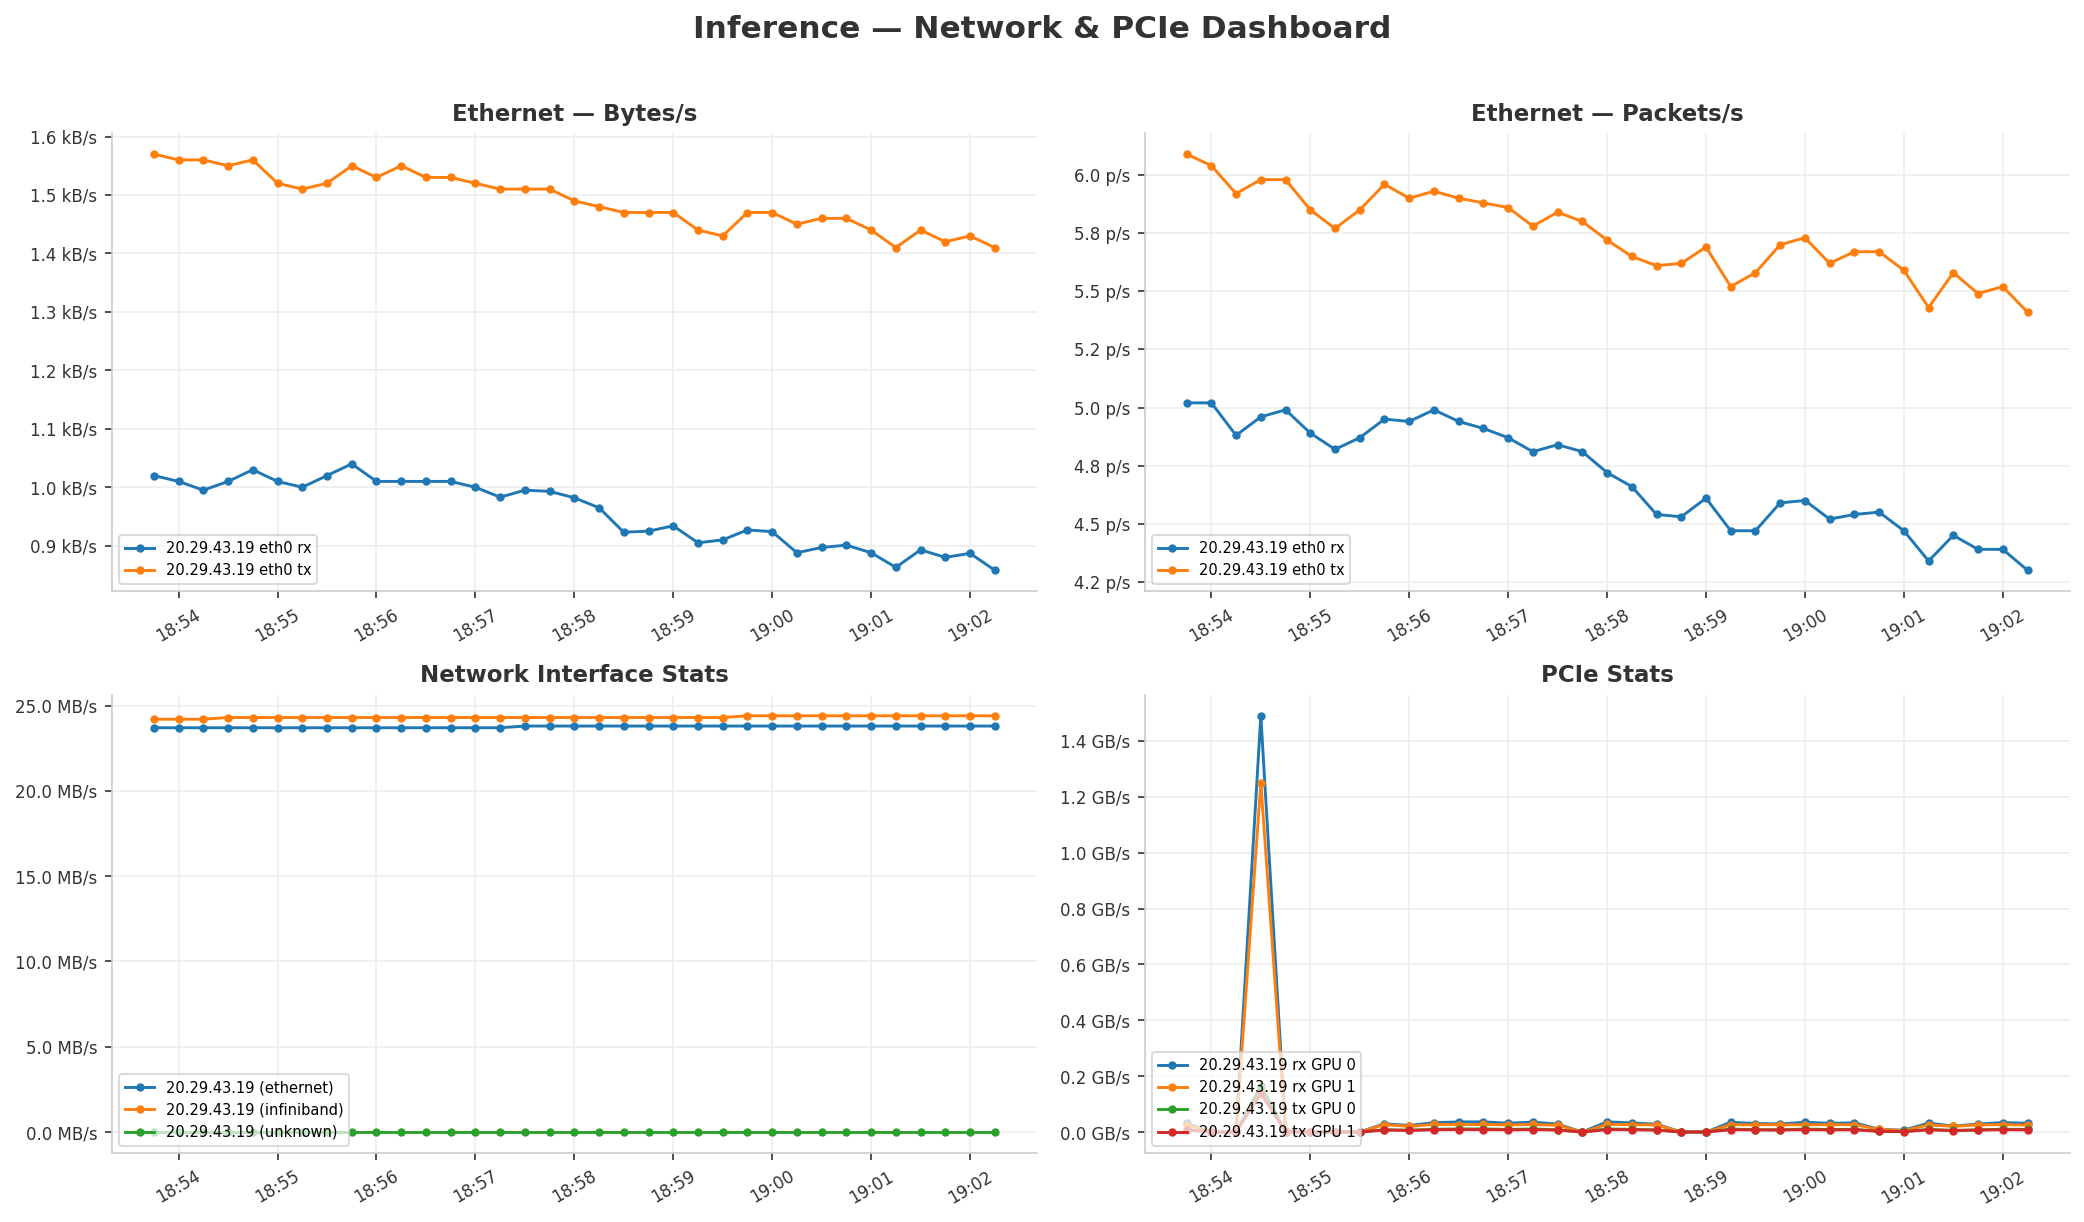
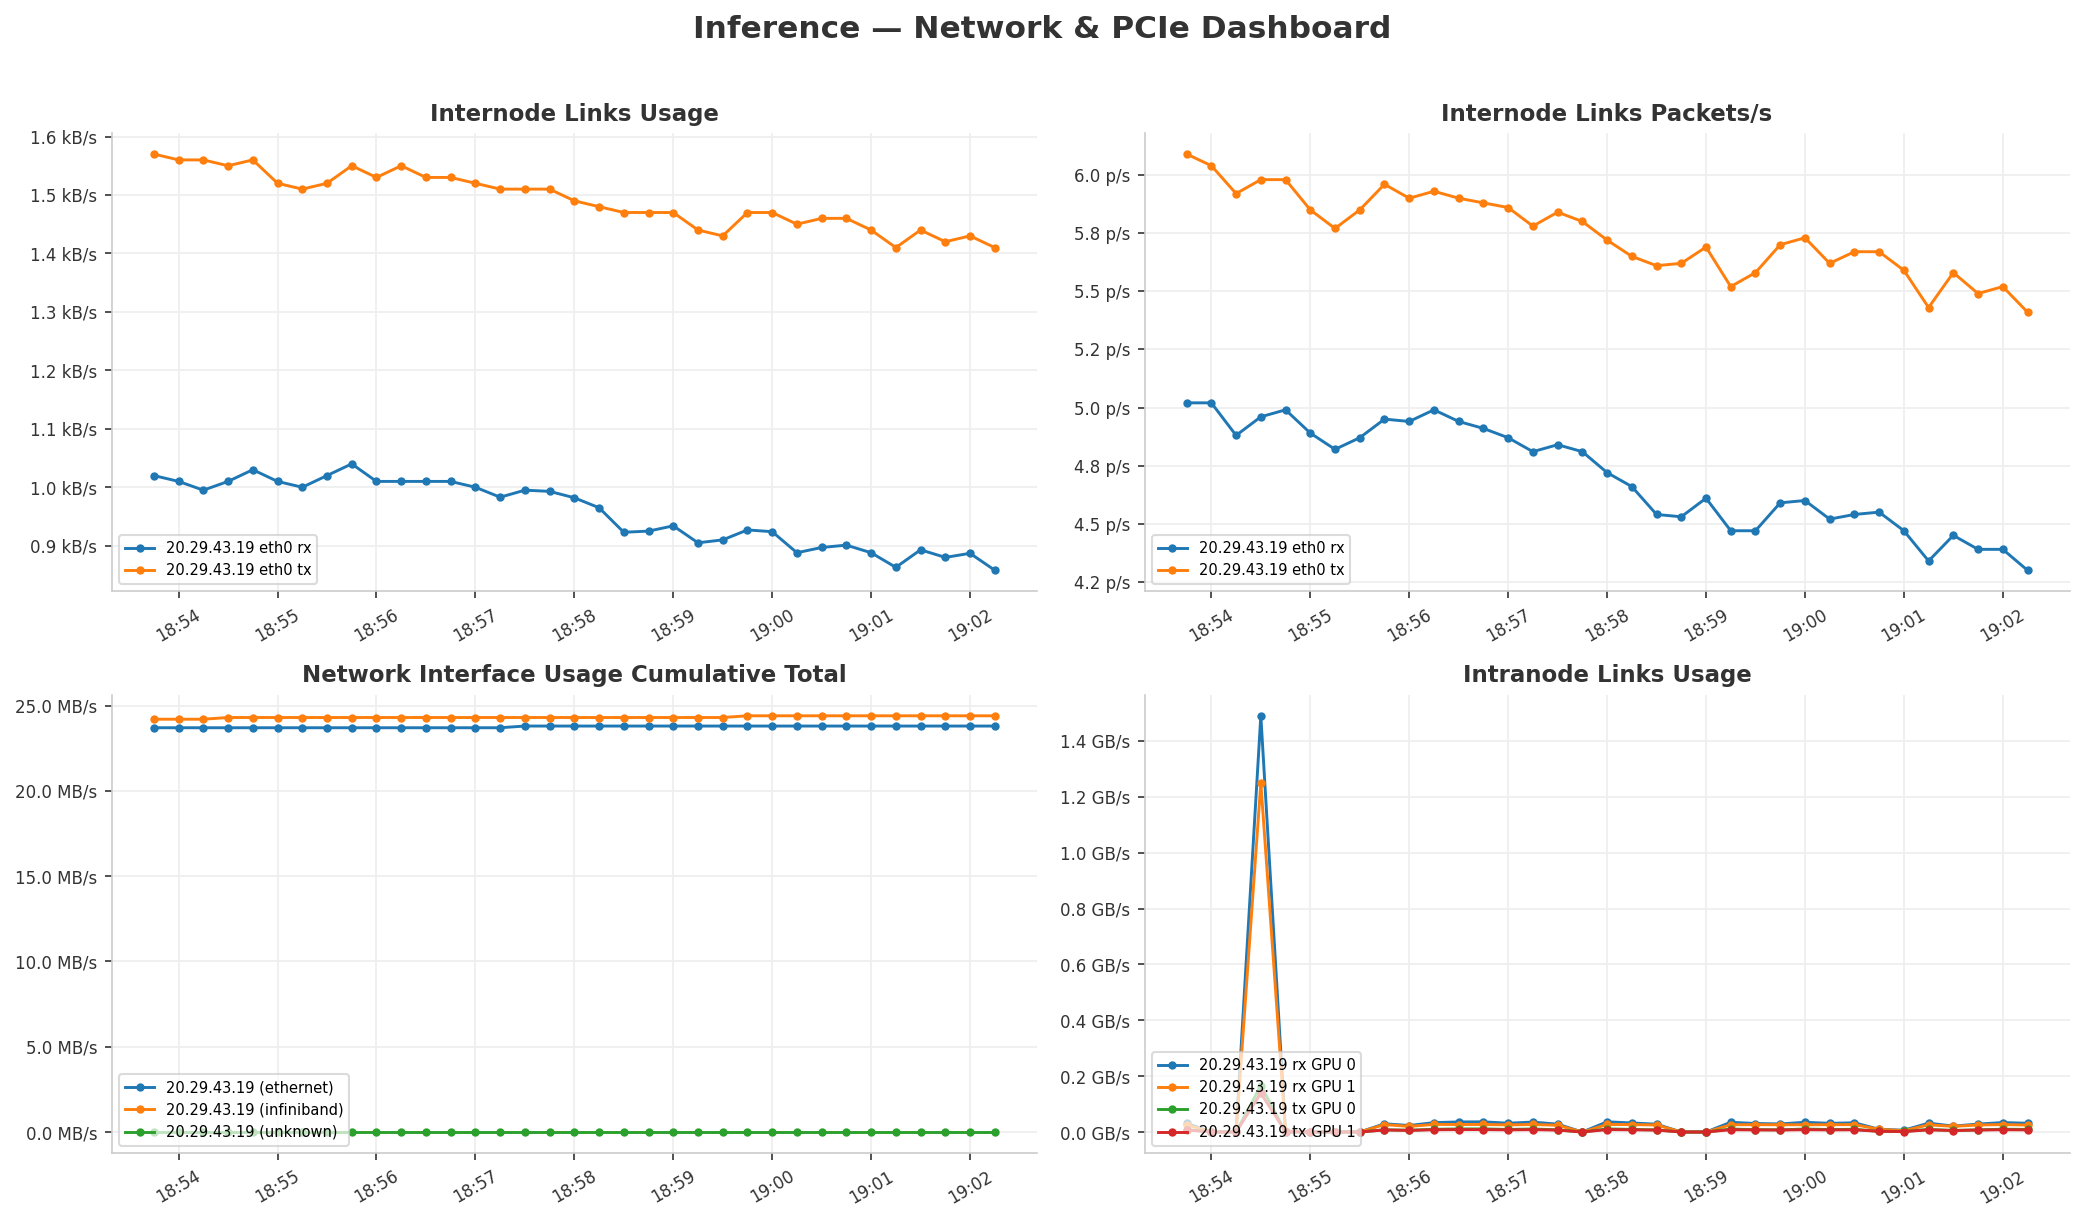
improve comparison plot: fixed units, log scale for NI panel, use_sum aggregation
- Network Interface Stats: cumulative totals (no differentiation), log y-axis,
  sum across series (independent transports), y-axis in GB
- Ethernet Bytes: fixed GB/s y-axis
- Rename panel titles to Internode/Intranode Links Usage
- Wire log_scale flag and force_unit field through plot_comparison loop

diff --git a/scripts/analysis/plot_dashboard.py b/scripts/analysis/plot_dashboard.py
@@ -9,6 +9,7 @@ Outputs:
     results/distributed inference/dashboard.png
 """
 
+import numpy as np
 import fnmatch
 import re
 from pathlib import Path
@@ -35,15 +36,25 @@ PACKET_MULTIPLIERS = {
 
 
 def parse_value(s: str) -> float:
-    """Parse a Grafana value string like '1.02 kB/s', '5.02 p/s', or '1.07 kp/s' to a float."""
+    """Parse a Grafana value string to a float in base units (bytes or packets).
+
+    Handles:
+      '1.02 kB/s', '23.8 MB/s', '1.00 TB/s'  → bytes/s
+      '5.02 p/s', '1.07 kp/s'                 → packets/s
+      '30.8 MB', '1.12 TB'                    → bytes (bare, no /s — cumulative counters)
+    """
     s = s.strip()
     for suffix, mult in PACKET_MULTIPLIERS.items():
         if s.endswith(suffix):
             return float(s[: -len(suffix)].strip()) * mult
+    # rate units (e.g. "23.8 MB/s") — check before bare to avoid partial match
     for suffix, mult in UNIT_MULTIPLIERS.items():
         if s.endswith(f" {suffix}/s") or s == f"{suffix}/s":
             return float(s[: -len(suffix) - 2].strip()) * mult
-    # fallback: try plain float
+    # bare units (e.g. "30.8 MB") — cumulative counter exports
+    for suffix, mult in UNIT_MULTIPLIERS.items():
+        if s.endswith(f" {suffix}") or s == suffix:
+            return float(s[: -len(suffix)].strip()) * mult
     return float(s)
 
 
@@ -89,10 +100,10 @@ def packets_formatter(val, _pos):
 
 # Map filename-pattern keywords to panel metadata
 PANEL_ORDER = [
-    ("Ethernet*Bytes*", "Ethernet — Bytes/s", "bytes"),
-    ("Ethernet*Packets*", "Ethernet — Packets/s", "packets"),
-    ("network interface*", "Network Interface Stats", "bytes"),
-    ("PCIe*", "PCIe Stats", "bytes"),
+    ("Ethernet*Bytes*", "Internode Links Usage", "bytes"),
+    ("Ethernet*Packets*", "Internode Links Packets/s", "packets"),
+    ("network interface*", "Network Interface Usage Cumulative Total", "bytes"),
+    ("PCIe*", "Intranode Links Usage", "bytes"),
 ]
 
 
@@ -102,7 +113,8 @@ def find_csv(folder: Path, pattern: str) -> Path:
     all_csvs = list(folder.glob("*.csv"))
     matches = [f for f in all_csvs if fnmatch.fnmatch(f.name, glob_pat)]
     if not matches:
-        matches = [f for f in all_csvs if fnmatch.fnmatch(f.name.lower(), glob_pat.lower())]
+        matches = [f for f in all_csvs if fnmatch.fnmatch(
+            f.name.lower(), glob_pat.lower())]
     if not matches:
         raise FileNotFoundError(f"No CSV matching '{glob_pat}' in {folder}")
     return sorted(matches)[0]
@@ -138,7 +150,8 @@ def plot_dataset(folder: Path, title: str) -> None:
                 markevery=max(1, len(df) // 30),
             )
 
-        ax.set_title(panel_title, fontsize=11, fontweight="bold", color="#333333", pad=6)
+        ax.set_title(panel_title, fontsize=11,
+                     fontweight="bold", color="#333333", pad=6)
         ax.tick_params(axis="x", rotation=30, labelsize=8, colors="#333333")
         ax.tick_params(axis="y", labelsize=8, colors="#333333")
         ax.xaxis.set_major_formatter(
@@ -148,9 +161,11 @@ def plot_dataset(folder: Path, title: str) -> None:
 
         if unit_type == "bytes":
             y_max = max(df[series_cols].max()) if series_cols else 1
-            ax.yaxis.set_major_formatter(ticker.FuncFormatter(bytes_formatter(y_max)))
+            ax.yaxis.set_major_formatter(
+                ticker.FuncFormatter(bytes_formatter(y_max)))
         else:
-            ax.yaxis.set_major_formatter(ticker.FuncFormatter(packets_formatter))
+            ax.yaxis.set_major_formatter(
+                ticker.FuncFormatter(packets_formatter))
 
         ax.legend(
             loc="lower left",
@@ -162,7 +177,8 @@ def plot_dataset(folder: Path, title: str) -> None:
         ax.spines[["left", "bottom"]].set_color("#cccccc")
         ax.grid(True, color="#eeeeee", linewidth=0.8)
 
-    fig.suptitle(title, fontsize=15, fontweight="bold", color="#333333", y=1.01)
+    fig.suptitle(title, fontsize=15, fontweight="bold",
+                 color="#333333", y=1.01)
     fig.tight_layout()
 
     out = folder / "dashboard.png"
@@ -173,22 +189,55 @@ def plot_dataset(folder: Path, title: str) -> None:
 
 DATASETS = [
     (RESULTS / "inference", "Inference — Network & PCIe Dashboard"),
-    (RESULTS / "distributed inference", "Distributed Inference — Network & PCIe Dashboard"),
+    (RESULTS / "distributed inference",
+     "Distributed Inference — Network & PCIe Dashboard"),
 ]
 
-import numpy as np
 
+def load_and_aggregate(
+    folder: Path,
+    pattern: str,
+    max_minutes: float | None = None,
+    differentiate: bool = False,
+    use_sum: bool = False,
+) -> tuple[np.ndarray, np.ndarray]:
+    """Return (elapsed_minutes, aggregated_values) arrays for all series in a CSV.
 
-def load_and_aggregate(folder: Path, pattern: str) -> tuple[np.ndarray, np.ndarray]:
-    """Return (elapsed_minutes, summed_values) arrays for all series in a CSV."""
+    Args:
+        max_minutes: clip the time series to this many elapsed minutes.
+        differentiate: convert a cumulative counter to an instantaneous rate
+            (bytes/s) via diff/dt — for panels that export running totals.
+        use_sum: sum all series instead of taking the max.  Use this for panels
+            where series represent independent links (e.g. network interface,
+            which mixes ethernet + infiniband transports that don't double-count).
+            Default is max, which avoids tx/rx double-counting on Ethernet panels.
+    """
     csv_path = find_csv(folder, pattern)
     df = pd.read_csv(csv_path, parse_dates=["Time"])
     series_cols = [c for c in df.columns if c != "Time"]
     for col in series_cols:
         df[col] = df[col].apply(parse_value)
     elapsed = (df["Time"] - df["Time"].iloc[0]).dt.total_seconds() / 60
-    total = df[series_cols].sum(axis=1)
-    return elapsed.values, total.values
+    total = df[series_cols].sum(
+        axis=1) if use_sum else df[series_cols].max(axis=1)
+
+    if max_minutes is not None:
+        mask = elapsed <= max_minutes
+        elapsed = elapsed[mask]
+        total = total[mask]
+
+    t = elapsed.values
+    v = total.values
+
+    if differentiate and len(t) > 1:
+        dt_sec = np.diff(t) * 60  # minutes → seconds
+        dv = np.diff(v)
+        rate = np.where(dt_sec > 0, dv / dt_sec, 0.0)
+        rate = np.maximum(rate, 0.0)          # drop counter resets
+        rate = np.concatenate([[rate[0]], rate])  # restore original length
+        v = rate
+
+    return t, v
 
 
 def plot_comparison(inf_folder: Path, train_folder: Path, output_path: Path) -> None:
@@ -196,65 +245,86 @@ def plot_comparison(inf_folder: Path, train_folder: Path, output_path: Path) -> 
     TRAIN_COLOR = "#d62728"  # red   — Training
     THRESH_COLOR = "#888888"
 
-    # Panels: (pattern, title, unit_type, add_threshold, log_scale)
-    # Network Interface Stats uses log scale: both workloads export cumulative byte counters
-    # from Prometheus, so inference (6-min run, ~88 MB total) and training (145-min run,
-    # ~6.5 TB total) span orders of magnitude — log scale shows both clearly.
+    # Panels: (pattern, title, unit_type, add_threshold, log_scale, differentiate)
+    # "network interface usage total" exports cumulative byte counters, so differentiate=True
+    # converts them to instantaneous rates before plotting.
     panels = [
-        ("Ethernet*Bytes*", "Ethernet — Bytes/s", "bytes", True, False),
-        ("Ethernet*Packets*", "Ethernet — Packets/s", "packets", True, False),
-        ("network interface*", "Network Interface Stats", "bytes", True, True),
-        ("PCIe*", "PCIe Stats", "bytes", True, False),
+        ("Ethernet*Bytes*",    "Ethernet — Bytes/s",
+         "bytes",   True,  False, False, False, "GB/s"),
+        ("Ethernet*Packets*",  "Ethernet — Packets/s",
+         "packets", True,  False, False, False, None),
+        ("network interface*", "Network Interface Usage Cumulative Total",
+         "bytes",   False, True,  False, True,  "GB"),
+        ("PCIe*",              "PCIe Stats",
+         "bytes",   True,  False, False, False, None),
     ]
+
+    # Clip both runs to the shorter duration so x-axes align.
+    any_pat = panels[0][0]
+    t_inf_end = load_and_aggregate(inf_folder, any_pat)[0][-1]
+    t_train_end = load_and_aggregate(train_folder, any_pat)[0][-1]
+    max_t = min(t_inf_end, t_train_end)
 
     fig, axes = plt.subplots(2, 2, figsize=(12, 7))
     fig.patch.set_facecolor("white")
 
-    for ax, (pattern, panel_title, unit_type, add_threshold, log_scale) in zip(axes.flat, panels):
-        t_inf, v_inf = load_and_aggregate(inf_folder, pattern)
-        t_train, v_train = load_and_aggregate(train_folder, pattern)
+    for ax, (pattern, panel_title, unit_type, add_threshold, log_scale, diff, use_sum, force_unit) in zip(axes.flat, panels):
+        t_inf, v_inf = load_and_aggregate(
+            inf_folder, pattern, max_minutes=max_t, differentiate=diff, use_sum=use_sum)
+        t_train, v_train = load_and_aggregate(
+            train_folder, pattern, max_minutes=max_t, differentiate=diff, use_sum=use_sum)
 
         ax.set_facecolor("white")
-        if log_scale:
-            ax.set_yscale("log")
-        ax.plot(t_inf, v_inf, color=INF_COLOR, linewidth=1.6, label="Distributed Inference")
-        ax.plot(t_train, v_train, color=TRAIN_COLOR, linewidth=1.6, label="Training")
+        ax.plot(t_inf, v_inf, color=INF_COLOR,
+                linewidth=1.6, label="Distributed Inference")
+        ax.plot(t_train, v_train, color=TRAIN_COLOR,
+                linewidth=1.6, label="Training")
 
         if add_threshold:
-            med_inf = float(np.median(v_inf[v_inf > 0])) if (v_inf > 0).any() else 0
-            med_train = float(np.median(v_train[v_train > 0])) if (v_train > 0).any() else 0
+            med_inf = float(np.median(v_inf[v_inf > 0])) if (
+                v_inf > 0).any() else 0
+            med_train = float(np.median(v_train[v_train > 0])) if (
+                v_train > 0).any() else 0
             if med_inf > 0 and med_train > 0:
                 thresh = float(np.sqrt(med_inf * med_train))
-                ax.axhline(thresh, color=THRESH_COLOR, linewidth=1.2, linestyle="--", zorder=0)
-                x_text = 0.02 * max(t_inf[-1], t_train[-1])
+                ax.axhline(thresh, color=THRESH_COLOR,
+                           linewidth=1.2, linestyle="--", zorder=0)
+                x_text = 0.02 * max_t
                 ax.text(
                     x_text, thresh,
                     "training threshold",
                     color=THRESH_COLOR, fontsize=8, va="bottom", ha="left",
                 )
 
-        ax.set_title(panel_title, fontsize=11, fontweight="bold", color="#333333", pad=6)
+        ax.set_title(panel_title, fontsize=11,
+                     fontweight="bold", color="#333333", pad=6)
         ax.set_xlabel("Elapsed time (min)", fontsize=8, color="#333333")
         ax.tick_params(axis="x", labelsize=8, colors="#333333")
         ax.tick_params(axis="y", labelsize=8, colors="#333333")
 
-        if not log_scale:
-            all_vals = np.concatenate([v_inf, v_train])
-            y_max = float(all_vals.max()) if len(all_vals) else 1.0
-            if unit_type == "bytes":
-                ax.yaxis.set_major_formatter(ticker.FuncFormatter(bytes_formatter(y_max)))
-            else:
-                ax.yaxis.set_major_formatter(ticker.FuncFormatter(packets_formatter))
-        else:
-            # log-scale: use bytes_formatter keyed to the axis max after rendering
-            ax.yaxis.set_major_formatter(ticker.FuncFormatter(
-                lambda val, _pos: bytes_formatter(val)(val, _pos)
-            ))
+        if log_scale:
+            ax.set_yscale("log")
 
-        ax.legend(loc="upper left", fontsize=8, framealpha=0.7, edgecolor="#cccccc")
+        all_vals = np.concatenate([v_inf, v_train])
+        y_max = float(all_vals.max()) if len(all_vals) else 1.0
+        if force_unit == "GB/s":
+            ax.yaxis.set_major_formatter(
+                ticker.FuncFormatter(lambda v, _: f"{v/1e9:.2f} GB/s"))
+        elif force_unit == "GB":
+            ax.yaxis.set_major_formatter(
+                ticker.FuncFormatter(lambda v, _: f"{v/1e9:.2f} GB"))
+        elif unit_type == "bytes":
+            ax.yaxis.set_major_formatter(
+                ticker.FuncFormatter(bytes_formatter(y_max)))
+        else:
+            ax.yaxis.set_major_formatter(
+                ticker.FuncFormatter(packets_formatter))
+
+        ax.legend(loc="upper left", fontsize=8,
+                  framealpha=0.7, edgecolor="#cccccc")
         ax.spines[["top", "right"]].set_visible(False)
         ax.spines[["left", "bottom"]].set_color("#cccccc")
-        ax.grid(True, color="#eeeeee", linewidth=0.8, which="both" if log_scale else "major")
+        ax.grid(True, color="#eeeeee", linewidth=0.8)
 
     fig.suptitle(
         "Distributed Inference vs Training — Network & PCIe",
